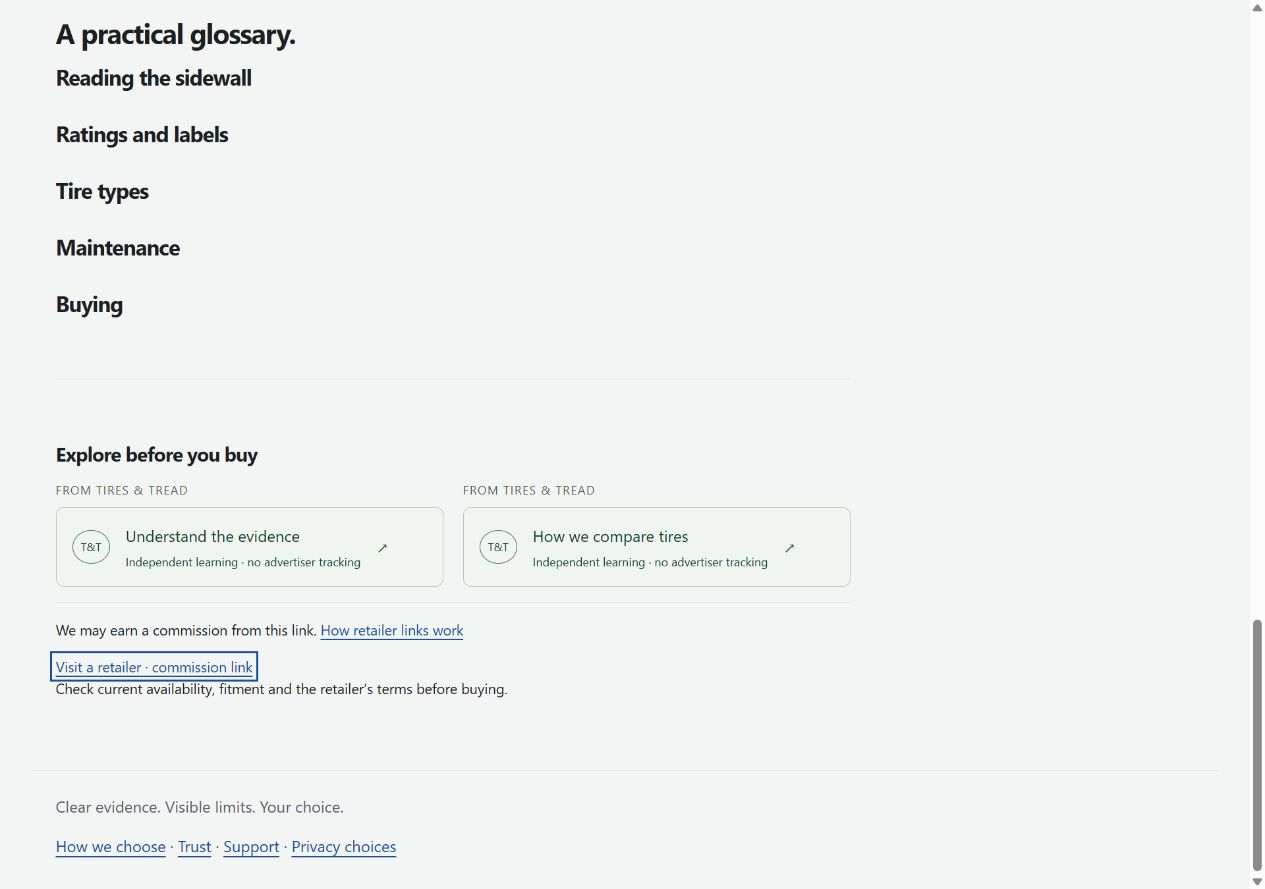
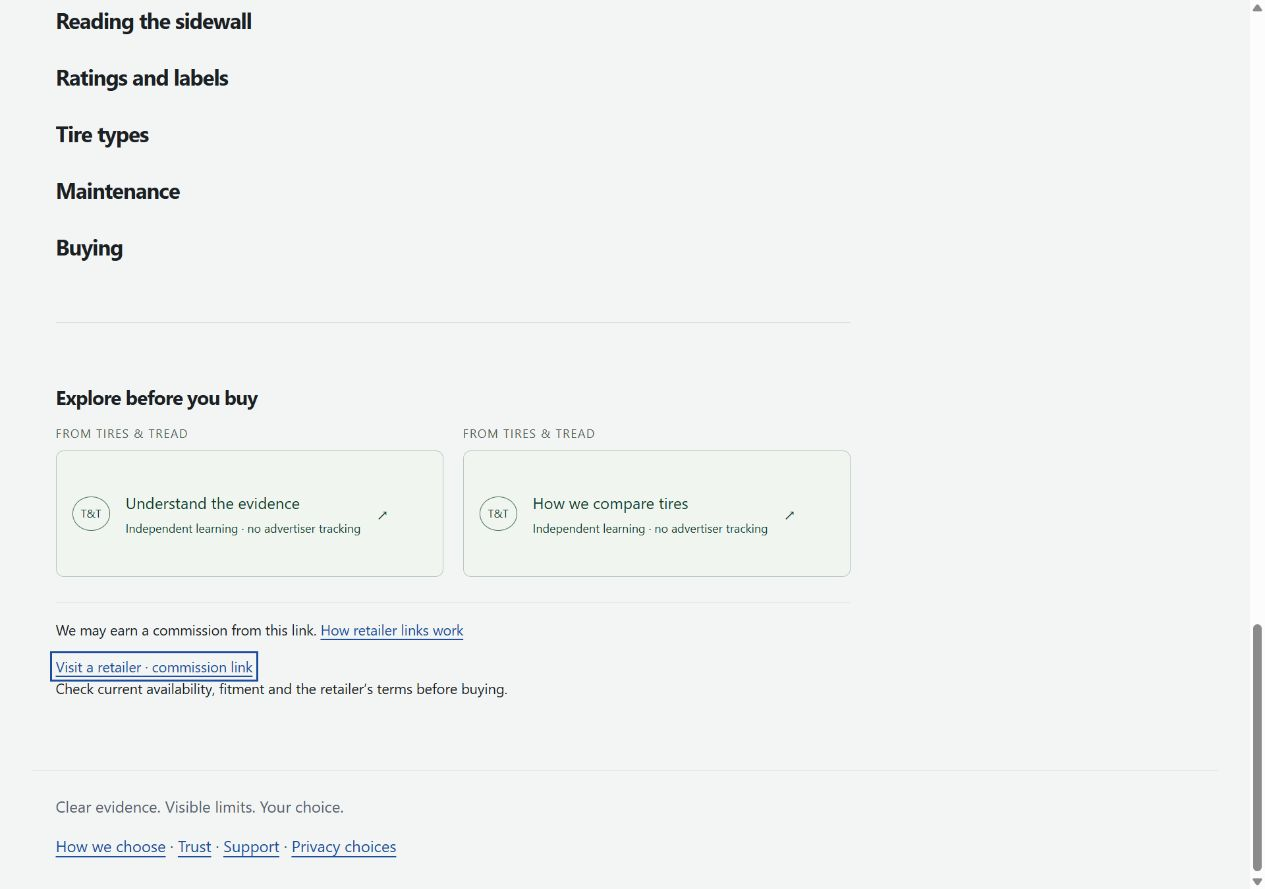
Reserve commercial dimensions in CSP-compatible external CSS

diff --git a/tests/database/web-commercial.test.ts b/tests/database/web-commercial.test.ts
@@ -10,6 +10,12 @@ it('proves SSR fallback, disclosures, safe affiliate redirects and ad-free prote
     expect(page.headers.get('content-security-policy')).toContain("script-src 'self'");
     const html = await page.text();
     expect(html.match(/data-commercial-slot=/g) ?? []).toHaveLength(2);
+    expect(html).not.toMatch(/<(aside|a)[^>]+style=/);
+    const cssPath = /<link[^>]+rel="stylesheet"[^>]+href="([^"]+)"/.exec(html)?.[1];
+    expect(cssPath).toBeDefined();
+    const css = await (await f.web.request(cssPath!)).text();
+    expect(css).toMatch(/\.commercial-slot\{[^}]*min-height:164px/);
+    expect(css).toMatch(/\.commercial-house\{[^}]*min-height:128px/);
     expect(html).toContain('We may earn a commission from this link.');
     expect(html).toContain('sponsored nofollow noopener noreferrer');
     expect(html).toMatch(/referrerpolicy="no-referrer"/i);

diff --git a/apps/web/src/commercial/view.tsx b/apps/web/src/commercial/view.tsx
@@ -10,14 +10,9 @@ export function CommercialView({ value }: { value: PublicCommerceView }) {
       <h2>Explore before you buy</h2>
       <div className="commercial-grid">
         {value.slots.map((slot) => (
-          <aside
-            className="commercial-slot"
-            key={slot.key}
-            data-commercial-slot={slot.key}
-            style={{ minHeight: slot.height + 36 }}
-          >
+          <aside className="commercial-slot" key={slot.key} data-commercial-slot={slot.key}>
             <span className="commercial-label">{slot.label}</span>
-            <a className="commercial-house" href={slot.housePath} style={{ height: slot.height }}>
+            <a className="commercial-house" href={slot.housePath}>
               <span aria-hidden="true" className="commercial-mark">
                 T&amp;T
               </span>

diff --git a/apps/web/app/globals.css b/apps/web/app/globals.css
@@ -1367,6 +1367,8 @@ fieldset {
 }
 .commercial-slot {
   min-width: 0;
+  /* Reserve the largest permitted 128px creative plus its label without inline styles. */
+  min-height: 164px;
 }
 .commercial-label {
   display: block;
@@ -1381,6 +1383,7 @@ fieldset {
   align-items: center;
   gap: 1rem;
   width: 100%;
+  min-height: 128px;
   padding: 1rem;
   border: 1px solid #b7c8be;
   border-radius: 0.5rem;

diff --git a/docs/implementation/P1-PR-040-local-commercial-placements.md b/docs/implementation/P1-PR-040-local-commercial-placements.md
@@ -12,7 +12,7 @@ The manual public allowlist is `/learn/tire-basics`, `/learn/glossary`, `/guides
 
 No placements appear on the home page, forms (including decoder/checklist), compare, shared reports, privacy, delivery, staff or email/PDF surfaces. The existing commercial service continues to reject private report paths. An owner result with picks gets two separate first-party learning links **after** its report body; this component accepts no report context and calls no placement endpoint or third-party SDK. Rankings, eligibility, costs, version identity and recommendation mathematics are unchanged.
 
-Public pages permit at most two bounded house slots. Short content is withheld or capped at one. SSR reserves card space, labels it “From Tires & Tread” and supplies useful local links even without JavaScript. The separate vanilla browser entry checks rendered inventory height against the project’s 30% density ceiling, including the affiliate/disclosure area. Excess inventory is hidden without collapsing its reserved space. Intersection observation and document visibility control lazy admission; missing observation support never admits external work. There is no automatic placement expansion, refresh timer, sticky overlay or interstitial. The independent commercial bundle has a 12,000-byte gzip ceiling; the existing 120,000-byte complete visitor budget is retained.
+Public pages permit at most two bounded house slots. Short content is withheld or capped at one. SSR reserves the largest permitted 128px card plus its label in the external stylesheet, labels it “From Tires & Tread” and supplies useful local links even without JavaScript. Configured slot heights remain capped at 128px; smaller creatives fit within the same reservation. No inline height style or CSP relaxation is needed. The separate vanilla browser entry checks rendered inventory height against the project’s 30% density ceiling, including the affiliate/disclosure area. Excess inventory is hidden without collapsing its reserved space. Intersection observation and document visibility control lazy admission; missing observation support never admits external work. There is no automatic placement expansion, refresh timer, sticky overlay or interstitial. The independent commercial bundle has a 12,000-byte gzip ceiling; the existing 120,000-byte complete visitor budget is retained.
 
 ## Consent, fallbacks and live bindings
 
